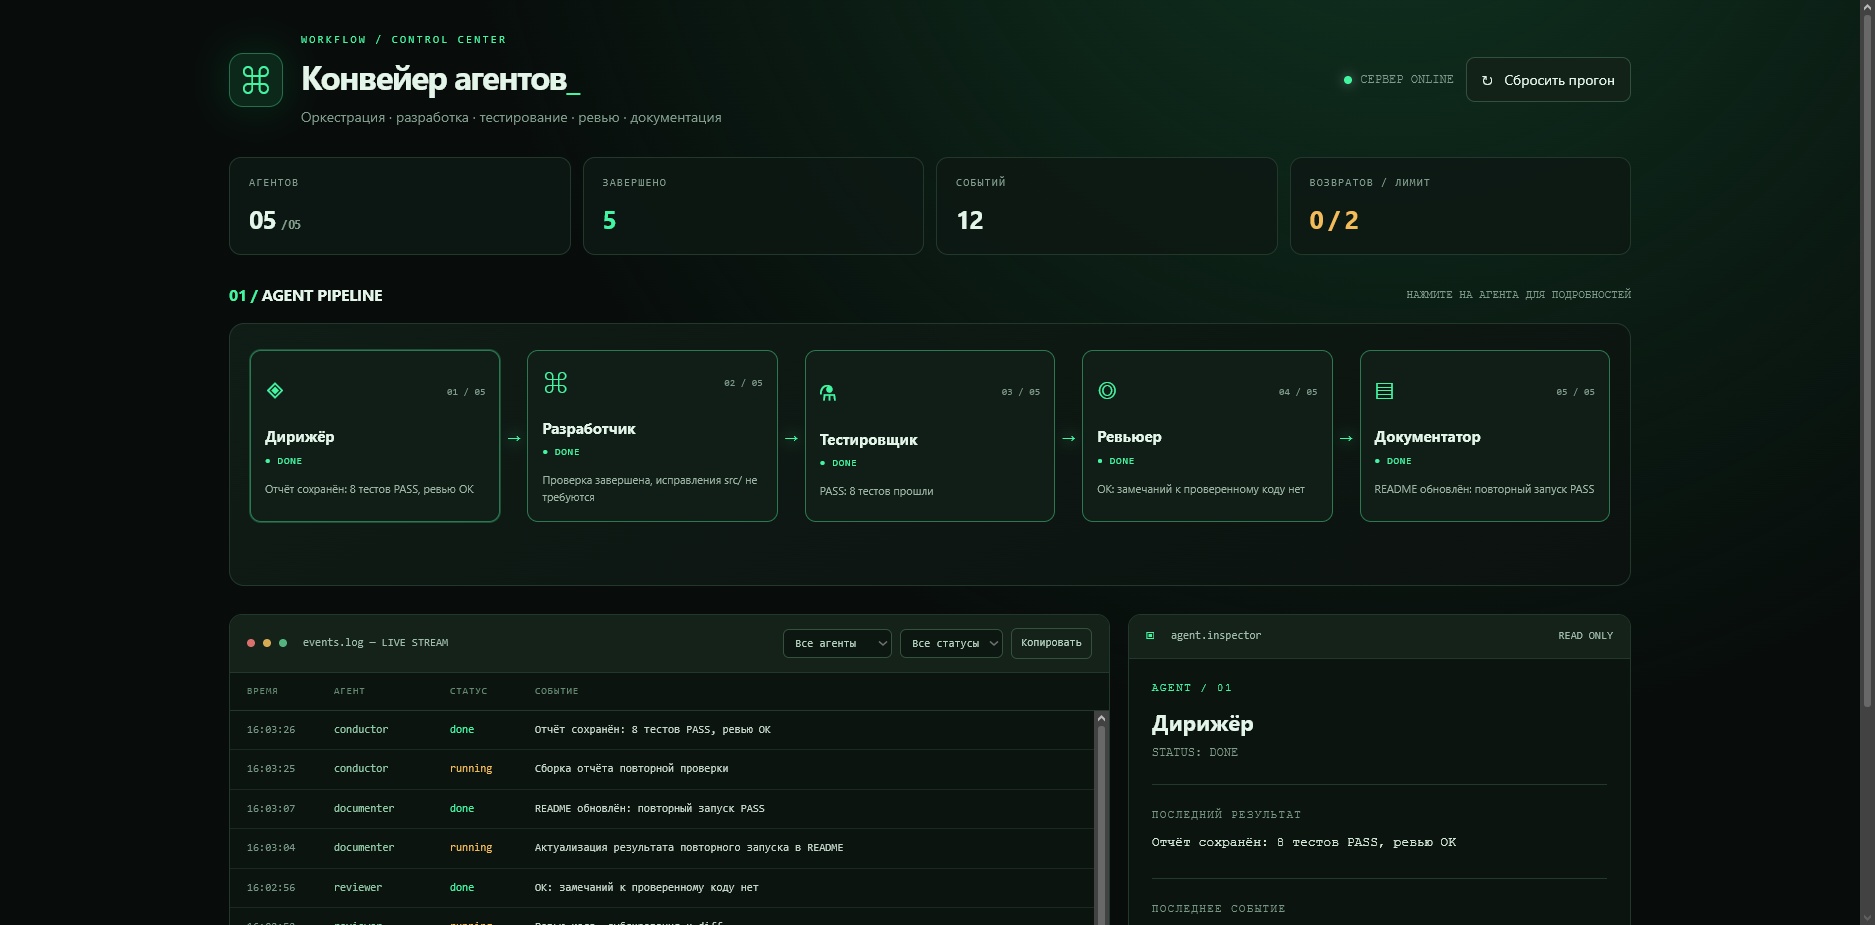
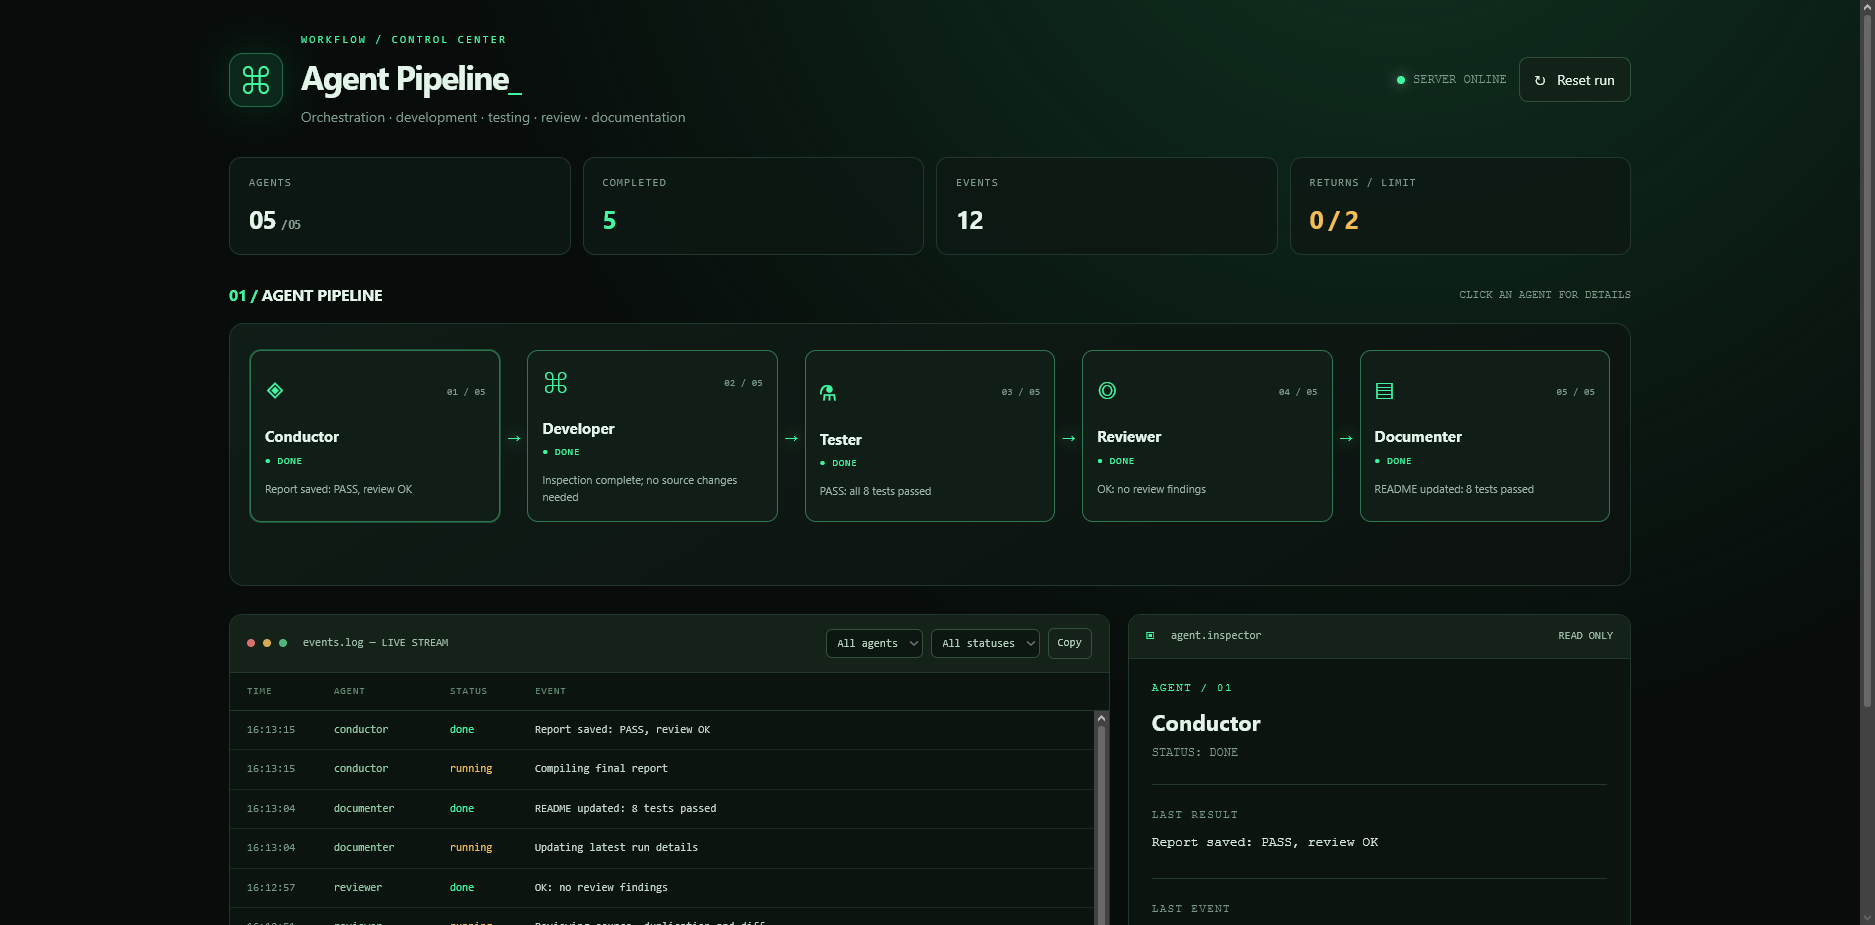
English dashboard UI and English agent summaries

diff --git a/mcp/index.html b/mcp/index.html
@@ -1,5 +1,5 @@
 <!doctype html>
-<html lang="ru">
+<html lang="en">
   <head>
     <meta charset="UTF-8" />
     <meta name="viewport" content="width=device-width, initial-scale=1" />
@@ -529,42 +529,42 @@
           <div class="logo" aria-hidden="true">⌘</div>
           <div>
             <div class="eyebrow">WORKFLOW / CONTROL CENTER</div>
-            <h1>Конвейер агентов<span style="color: var(--green)">_</span></h1>
-            <p class="subtitle">Оркестрация · разработка · тестирование · ревью · документация</p>
+            <h1>Agent Pipeline<span style="color: var(--green)">_</span></h1>
+            <p class="subtitle">Orchestration · development · testing · review · documentation</p>
           </div>
         </div>
         <div class="actions">
           <div class="connection">
             <span id="connectionDot" class="dot"></span
-            ><span id="connectionText">Подключение...</span>
+            ><span id="connectionText">Connecting...</span>
           </div>
-          <button id="resetButton" class="btn" type="button">↻ &nbsp; Сбросить прогон</button>
+          <button id="resetButton" class="btn" type="button">↻ &nbsp; Reset run</button>
         </div>
       </header>
-      <section class="metrics" aria-label="Статистика">
+      <section class="metrics" aria-label="Stats">
         <div class="metric">
-          <div class="metric-label">Агентов</div>
+          <div class="metric-label">Agents</div>
           <div class="metric-value">
             05 <span style="font-size: 12px; color: var(--muted)">/ 05</span>
           </div>
         </div>
         <div class="metric">
-          <div class="metric-label">Завершено</div>
+          <div class="metric-label">Completed</div>
           <div class="metric-value green" id="doneCount">0</div>
         </div>
         <div class="metric">
-          <div class="metric-label">Событий</div>
+          <div class="metric-label">Events</div>
           <div class="metric-value" id="eventCount">0</div>
         </div>
         <div class="metric">
-          <div class="metric-label">Возвратов / лимит</div>
+          <div class="metric-label">Returns / limit</div>
           <div class="metric-value amber" id="loopCount">0 / 2</div>
         </div>
       </section>
       <section>
         <div class="section-head">
           <h2><span style="color: var(--green)">01 /</span> AGENT PIPELINE</h2>
-          <span class="section-tag">НАЖМИТЕ НА АГЕНТА ДЛЯ ПОДРОБНОСТЕЙ</span>
+          <span class="section-tag">CLICK AN AGENT FOR DETAILS</span>
         </div>
         <div class="pipeline">
           <div class="pipeline-track" id="row"></div>
@@ -577,20 +577,20 @@
             <span class="light"></span><span class="light"></span><span class="light"></span
             ><span class="terminal-title">events.log — LIVE STREAM</span>
             <div class="terminal-tools">
-              <select id="agentFilter" class="select" aria-label="Фильтр по агенту">
-                <option value="all">Все агенты</option></select
-              ><select id="statusFilter" class="select" aria-label="Фильтр по статусу">
-                <option value="all">Все статусы</option>
+              <select id="agentFilter" class="select" aria-label="Filter by agent">
+                <option value="all">All agents</option></select
+              ><select id="statusFilter" class="select" aria-label="Filter by status">
+                <option value="all">All statuses</option>
                 <option value="running">running</option>
                 <option value="done">done</option>
                 <option value="failed">failed</option></select
-              ><button class="mini-btn" id="copyLogs" type="button">Копировать</button>
+              ><button class="mini-btn" id="copyLogs" type="button">Copy</button>
             </div>
           </div>
           <div class="log-head">
-            <span>ВРЕМЯ</span><span>АГЕНТ</span><span>СТАТУС</span><span>СОБЫТИЕ</span>
+            <span>TIME</span><span>AGENT</span><span>STATUS</span><span>EVENT</span>
           </div>
-          <div class="logs" id="events" role="log" aria-label="Лента событий"></div>
+          <div class="logs" id="events" role="log" aria-label="Event feed"></div>
         </section>
         <aside class="inspector">
           <div class="terminal-top">
@@ -600,29 +600,29 @@
           </div>
           <div class="inspector-body">
             <div class="inspect-id" id="inspectId">AGENT / 01</div>
-            <div class="inspect-title" id="inspectTitle">Дирижёр</div>
+            <div class="inspect-title" id="inspectTitle">Conductor</div>
             <div class="inspect-status" id="inspectStatus">STATUS: WAITING</div>
             <div class="inspect-divider"></div>
-            <div class="inspect-label">ПОСЛЕДНИЙ РЕЗУЛЬТАТ</div>
-            <div class="inspect-summary" id="inspectSummary">Ожидание данных сервера...</div>
+            <div class="inspect-label">LAST RESULT</div>
+            <div class="inspect-summary" id="inspectSummary">Waiting for server data...</div>
             <div class="inspect-divider"></div>
-            <div class="inspect-label">ПОСЛЕДНЕЕ СОБЫТИЕ</div>
-            <div class="inspect-summary" id="inspectEvent">Нет событий</div>
-            <div class="inspect-note">Данные синхронизируются с /state каждую секунду.</div>
+            <div class="inspect-label">LAST EVENT</div>
+            <div class="inspect-summary" id="inspectEvent">No events</div>
+            <div class="inspect-note">Data syncs with /state every second.</div>
           </div>
         </aside>
       </div>
       <footer class="footer">
-        <span>AGENT CONTROL / TERMINAL OS v2</span><span id="lastSync">Ожидание синхронизации</span>
+        <span>AGENT CONTROL / TERMINAL OS v2</span><span id="lastSync">Waiting for sync</span>
       </footer>
     </main>
     <script>
       const AGENTS = [
-        ["conductor", "Дирижёр", "◈"],
-        ["developer", "Разработчик", "⌘"],
-        ["tester", "Тестировщик", "⚗"],
-        ["reviewer", "Ревьюер", "◎"],
-        ["documenter", "Документатор", "▤"],
+        ["conductor", "Conductor", "◈"],
+        ["developer", "Developer", "⌘"],
+        ["tester", "Tester", "⚗"],
+        ["reviewer", "Reviewer", "◎"],
+        ["documenter", "Documenter", "▤"],
       ];
       let currentState = { agents: {}, events: [] };
       let selectedAgent = "conductor";
@@ -651,11 +651,11 @@
         setText("doneCount", AGENTS.filter(([id]) => agentStates[id]?.status === "done").length);
         setText("eventCount", allEvents.length);
         setText("loopCount", loops + " / 2");
-        setText("loopInfo", loops ? "↳ Возврат к разработчику: " + loops + " из 2" : "");
+        setText("loopInfo", loops ? "↳ Return to Developer: " + loops + " of 2" : "");
         const row = $("row");
         row.replaceChildren();
         AGENTS.forEach(([id, name, icon], i) => {
-          const info = agentStates[id] || { status: "waiting", summary: "ждёт" };
+          const info = agentStates[id] || { status: "waiting", summary: "waiting" };
           const box = document.createElement("button");
           box.type = "button";
           box.className =
@@ -684,7 +684,7 @@
           status.textContent = "● " + String(info.status || "waiting").toUpperCase();
           const summary = document.createElement("div");
           summary.className = "agent-summary";
-          summary.textContent = info.summary ?? "ждёт";
+          summary.textContent = info.summary ?? "waiting";
           box.append(top, title, status, summary);
           box.addEventListener("click", () => {
             selectedAgent = id;
@@ -702,11 +702,11 @@
           AGENTS.findIndex((a) => a[0] === selectedAgent),
           AGENTS.find((a) => a[0] === selectedAgent)?.[1] || selectedAgent,
         ];
-        const selected = agentStates[selectedAgent] || { status: "waiting", summary: "ждёт" };
+        const selected = agentStates[selectedAgent] || { status: "waiting", summary: "waiting" };
         setText("inspectId", "AGENT / " + String(index + 1).padStart(2, "0"));
         setText("inspectTitle", name);
         setText("inspectStatus", "STATUS: " + String(selected.status || "waiting").toUpperCase());
-        setText("inspectSummary", selected.summary || "Нет данных");
+        setText("inspectSummary", selected.summary || "No data");
         const lastEvent = allEvents
           .slice()
           .reverse()
@@ -715,7 +715,7 @@
           "inspectEvent",
           lastEvent
             ? `${lastEvent.time || ""} · ${lastEvent.status || ""}\n${lastEvent.summary || ""}`
-            : "Нет событий",
+            : "No events",
         );
         renderEvents();
       }
@@ -734,7 +734,7 @@
         if (!events.length) {
           const empty = document.createElement("div");
           empty.className = "empty";
-          empty.textContent = "// Событий пока нет";
+          empty.textContent = "// No events yet";
           container.appendChild(empty);
           return;
         }
@@ -778,10 +778,10 @@
         try {
           await navigator.clipboard.writeText(text);
           const btn = $("copyLogs");
-          btn.textContent = "Скопировано ✓";
-          setTimeout(() => (btn.textContent = "Копировать"), 1400);
+          btn.textContent = "Copied ✓";
+          setTimeout(() => (btn.textContent = "Copy"), 1400);
         } catch {
-          alert("Не удалось скопировать лог");
+          alert("Could not copy the log");
         }
       });
       async function update() {
@@ -792,15 +792,15 @@
           if (!res.ok) throw Error("HTTP " + res.status);
           const data = await res.json();
           if (!data || typeof data !== "object" || !data.agents || !Array.isArray(data.events))
-            throw Error("Неверный формат /state");
+            throw Error("Invalid /state format");
           render(data);
           $("connectionDot").className = "dot online";
-          setText("connectionText", "СЕРВЕР ONLINE");
-          setText("lastSync", "SYNC " + new Date().toLocaleTimeString("ru-RU"));
+          setText("connectionText", "SERVER ONLINE");
+          setText("lastSync", "SYNC " + new Date().toLocaleTimeString("en-GB"));
         } catch (e) {
           $("connectionDot").className = "dot offline";
-          setText("connectionText", "СЕРВЕР OFFLINE");
-          setText("lastSync", "Ошибка соединения: " + e.message);
+          setText("connectionText", "SERVER OFFLINE");
+          setText("lastSync", "Connection error: " + e.message);
         } finally {
           updating = false;
         }
@@ -813,7 +813,7 @@
           if (!res.ok) throw Error("HTTP " + res.status);
           await update();
         } catch (e) {
-          alert("Не удалось сбросить прогон: " + e.message);
+          alert("Could not reset the run: " + e.message);
         } finally {
           btn.disabled = false;
         }

diff --git a/reports/last-run.md b/reports/last-run.md
@@ -1,6 +1,6 @@
-## Итоговый отчёт
+## Итоговый отчёт
 
-Дата: 2026-11-02. Повторная проверка `src/` по commands/check-project.md и docs/workflow.md. Роли выполнены последовательно. Возвратов к Разработчику: 0.
+Дата: 2026-11-02 16:13:15. Повторная проверка `src/` по commands/check-project.md и docs/workflow.md. Роли выполнены последовательно. Возвратов к Разработчику: 0.
 
 | Агент | Статус | Шагов |
 |-------|--------|-------|
@@ -42,7 +42,7 @@
 | test_missing_id_does_not_write | OK |
 | test_script_exit_codes | OK |
 
-Упавшие проверки: Нет. Итог: PASS. 8 тестов за 0.374 с, код завершения 0. Новые тесты не требовались.
+Упавшие проверки: Нет. Итог: PASS. 8 тестов за 0.343 с, код завершения 0. Новые тесты не требовались.
 
 ### Замечания ревью
 Нет. Ревьюер получил отсутствие изменений от Разработчика, отчёт PASS и пустой git diff для src/ и tests/. В проверенном коде новых проблем логики, безопасности и дублирования не выявлено. Вердикт: OK.
@@ -51,7 +51,7 @@
 PASS. Все 8 тестов прошли, ревью OK. Возвраты не потребовались.
 
 ### Документация
-В README.md уточнён результат повторного запуска для src/: 8 тестов PASS, ревью OK, исходный код и тесты без изменений.
+В README.md обновлены время и результат текущего запуска для src/: 8 тестов PASS, ревью OK, исходный код и тесты без изменений.
 
 ### Регистрация шагов
-reset_run и report_step не подключены как инструменты сессии. Вызваны локальные функции из mcp/server.py через Python 3.12: сброс перед началом ролей и регистрация начала/окончания каждой роли. Состояние сохранено в .workflow/state.json.
+reset_run и report_step не подключены как инструменты сессии. Вызваны локальные функции из mcp/server.py через Python 3.12: сброс перед началом ролей и регистрация начала/окончания каждой роли. Состояние сохранено в .workflow/state.json. Все поля summary записаны кратко на английском языке согласно актуальной команде.

diff --git a/commands/check-project.md b/commands/check-project.md
@@ -24,6 +24,7 @@ argument-hint: [папка или цель проверки]
 - Не переходи к следующему шагу, пока текущий не выдал ответ в своём формате.
 - На каждом шаге соблюдай Запреты из файла агента.
 - В самом начале вызови инструмент reset_run, чтобы очистить прошлый прогон.
+- Поле summary в report_step всегда пиши на английском языке, коротко.
 
 В конце покажи сводку и сохрани её в reports/last-run.md:
 

diff --git a/README.md b/README.md
@@ -89,7 +89,7 @@ Run the tests:
 python -m unittest discover tests
 ```
 
-Last run (2026-11-02, repeated check of `src/`): all 8 tests passed, no returns to the Developer were needed, review verdict OK, overall result PASS. Source code and tests were unchanged. Details in `reports/last-run.md`.
+Last run (2026-11-02 16:13:04, check of src/): all 8 tests passed in 0.343 s, no returns to the Developer were needed, review verdict OK, overall result PASS. Source code and tests were unchanged. Details in reports/last-run.md.
 
 ## Project structure
 
